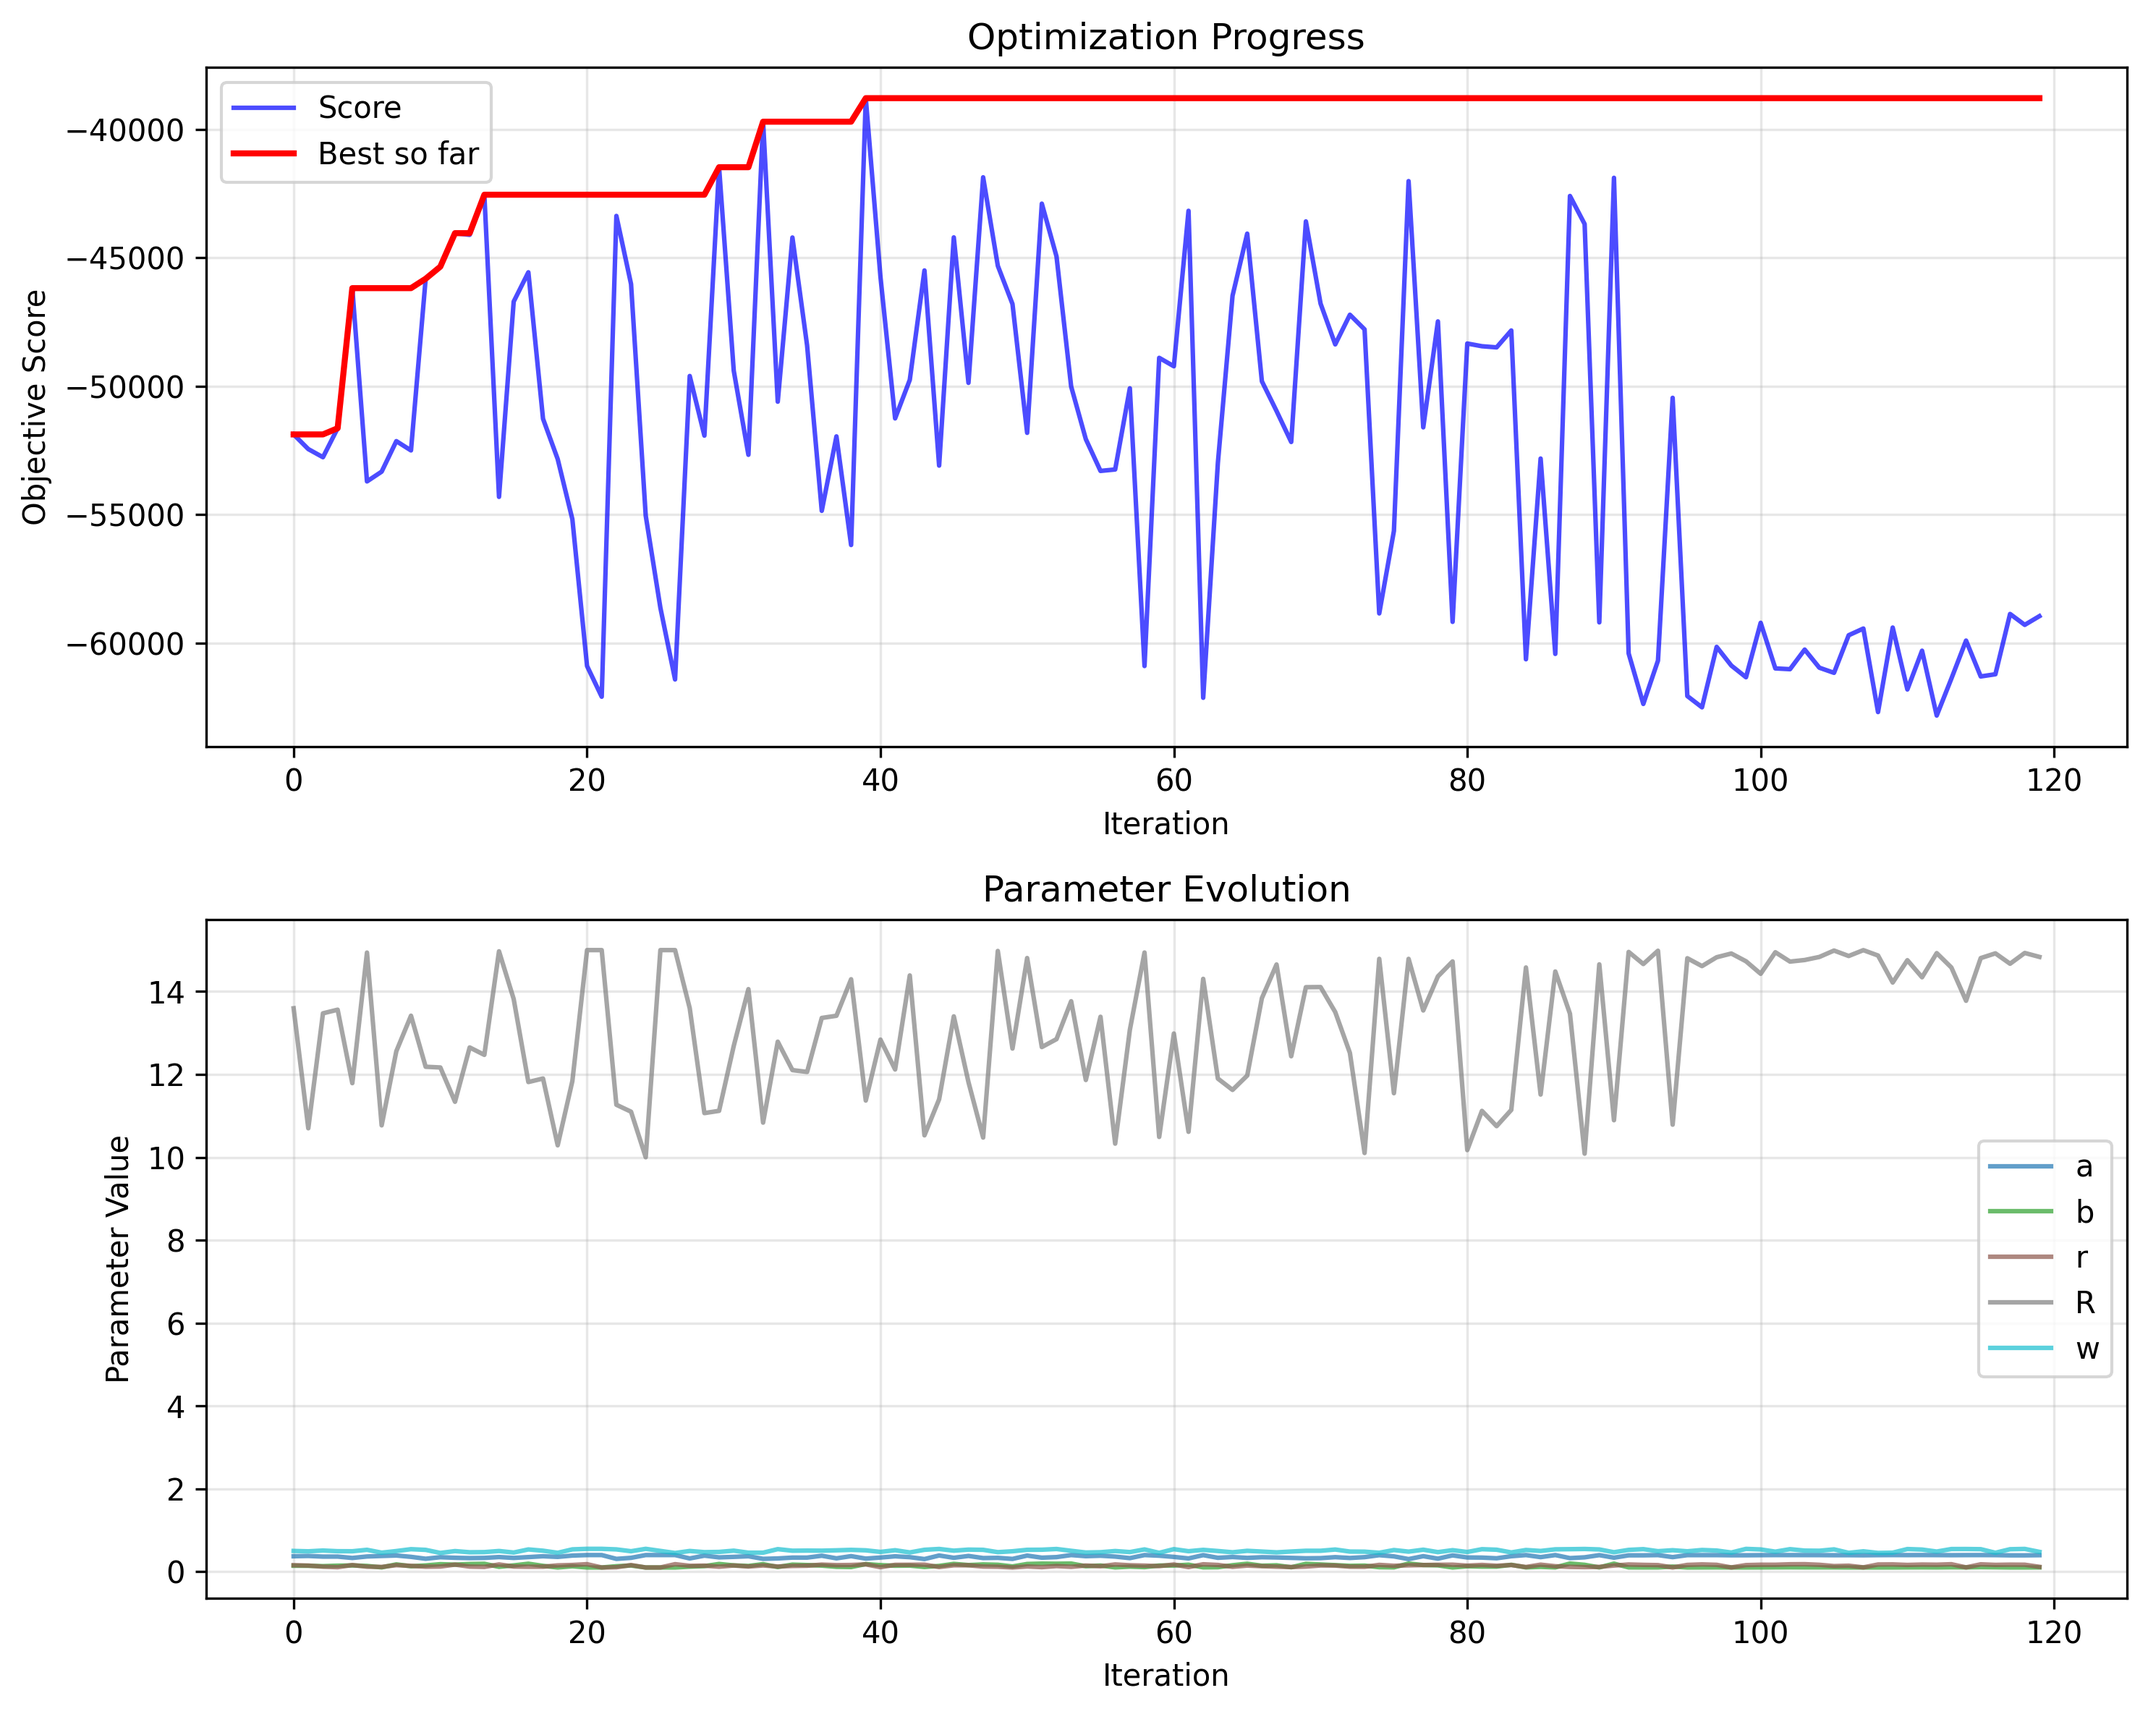
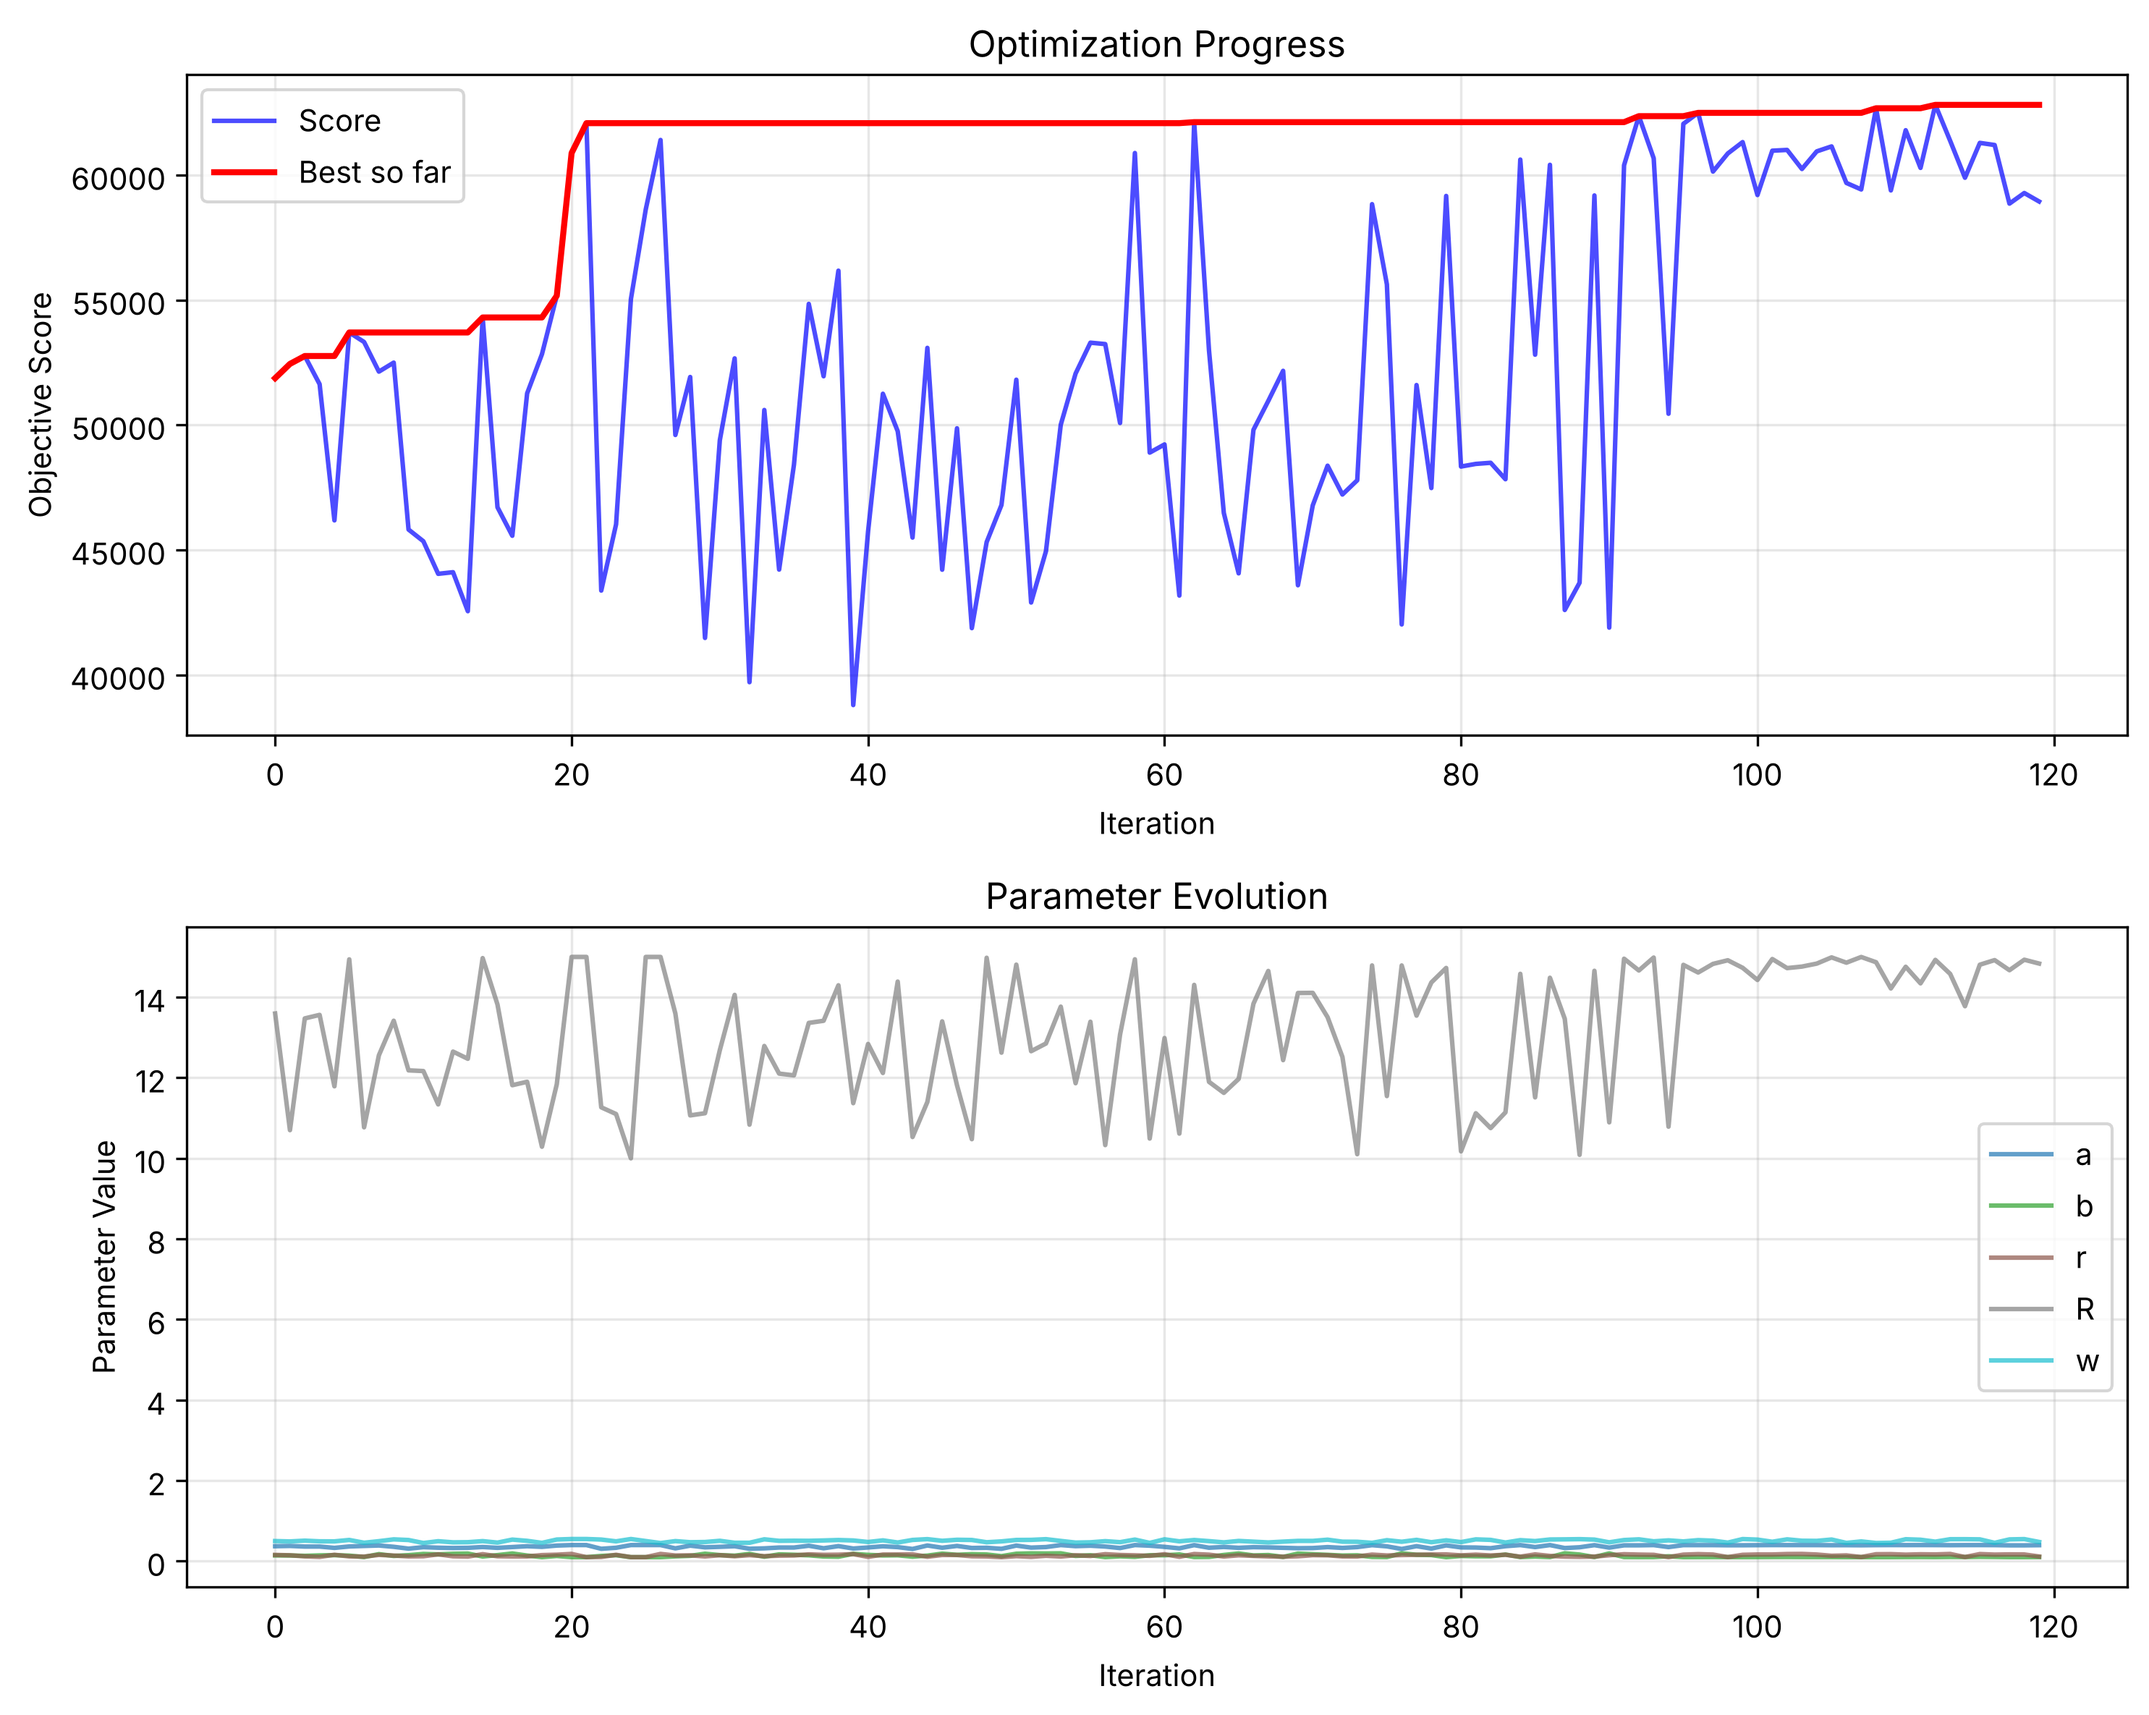
Regenerate analysis reports and figures from corrected logs
The analysis reports, optimization plots and exploration comparison were
built from the negated logs, so 'Best score' was the worst design (e.g.
-14983.59 for run_20250623_161757; the real best is 20468.12), the
'best so far' curves tracked the worst score, and correlation signs
were flipped.

Regenerated with src/analysis.py for the two runs that had reports and
with compare_explorations.py for the comparison figure.
docs/images/optimization_plots.png is a copy of run_20250623_161757's
plot, as before. The best scores quoted in docs/EXPLORATION_RESULTS.md
were already correct and are unchanged.

Claude-Session: https://claude.ai/code/session_01544Sc9gDdo8SZHhCwPpYMo

diff --git a/results/run_20250623_161133/analysis_report.md b/results/run_20250623_161133/analysis_report.md
@@ -1,11 +1,11 @@
 # Optimization Analysis Report
-Generated: 2025-06-23 16:12:31.713258
+Generated: 2026-10-10 01:10:59.139294
 Results directory: results/run_20250623_161133
 
 ## Summary Statistics
 Total iterations: 120
-Best score: -38793.3345
-Average score: -52483.9888
+Best score: 62812.5823
+Average score: 52483.9888
 Score std dev: 6673.3604
 
 ## Best Parameters
@@ -16,12 +16,12 @@ Score std dev: 6673.3604
 - w: 0.4847
 
 ## Parameter Correlations with Score
-- a: -0.8740
-- b: 0.8560
-- R: -0.6550
-- r: -0.3403
-- w: -0.1904
+- a: 0.8740
+- b: -0.8560
+- R: 0.6550
+- r: 0.3403
+- w: 0.1904
 
 ## Convergence Analysis
-Iterations with improvement: 53
-Last improvement at iteration: 119
+Iterations with improvement: 66
+Last improvement at iteration: 118

diff --git a/results/run_20250623_161757/analysis_report.md b/results/run_20250623_161757/analysis_report.md
@@ -1,11 +1,11 @@
 # Optimization Analysis Report
-Generated: 2025-06-23 16:18:02.750245
+Generated: 2026-10-10 01:11:01.550390
 Results directory: results/run_20250623_161757
 
 ## Summary Statistics
 Total iterations: 15
-Best score: -14983.5910
-Average score: -17996.5298
+Best score: 20468.1195
+Average score: 17996.5298
 Score std dev: 1696.0297
 
 ## Best Parameters
@@ -16,12 +16,12 @@ Score std dev: 1696.0297
 - w: 0.4964
 
 ## Parameter Correlations with Score
-- r: 0.3637
-- a: -0.2781
-- b: -0.1324
-- w: 0.1017
-- R: -0.0291
+- r: -0.3637
+- a: 0.2781
+- b: 0.1324
+- w: -0.1017
+- R: 0.0291
 
 ## Convergence Analysis
 Iterations with improvement: 7
-Last improvement at iteration: 14
+Last improvement at iteration: 13
